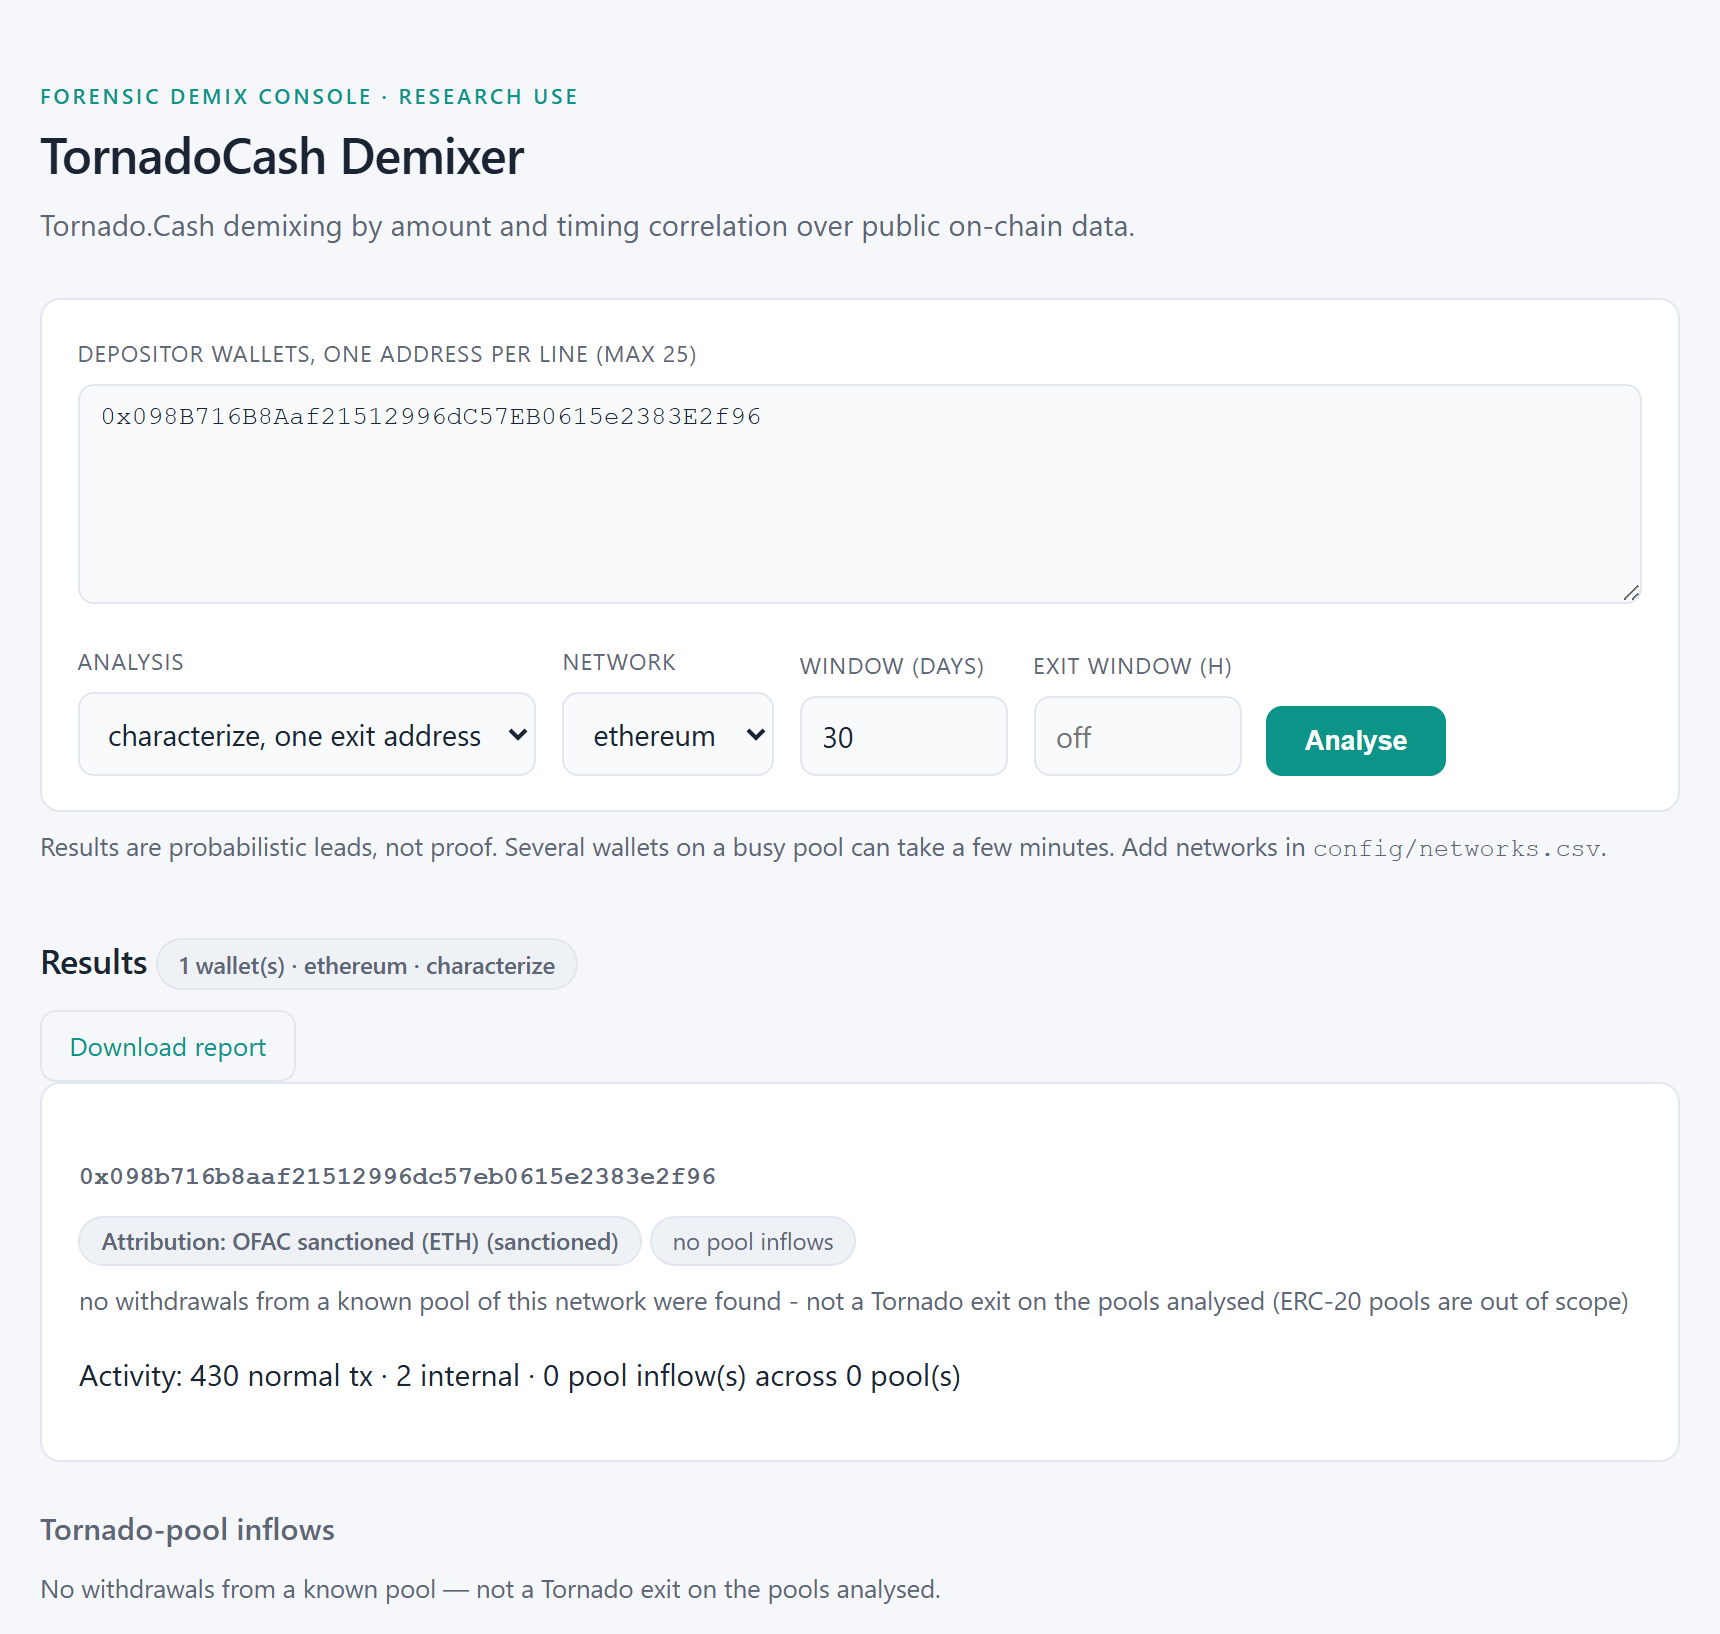
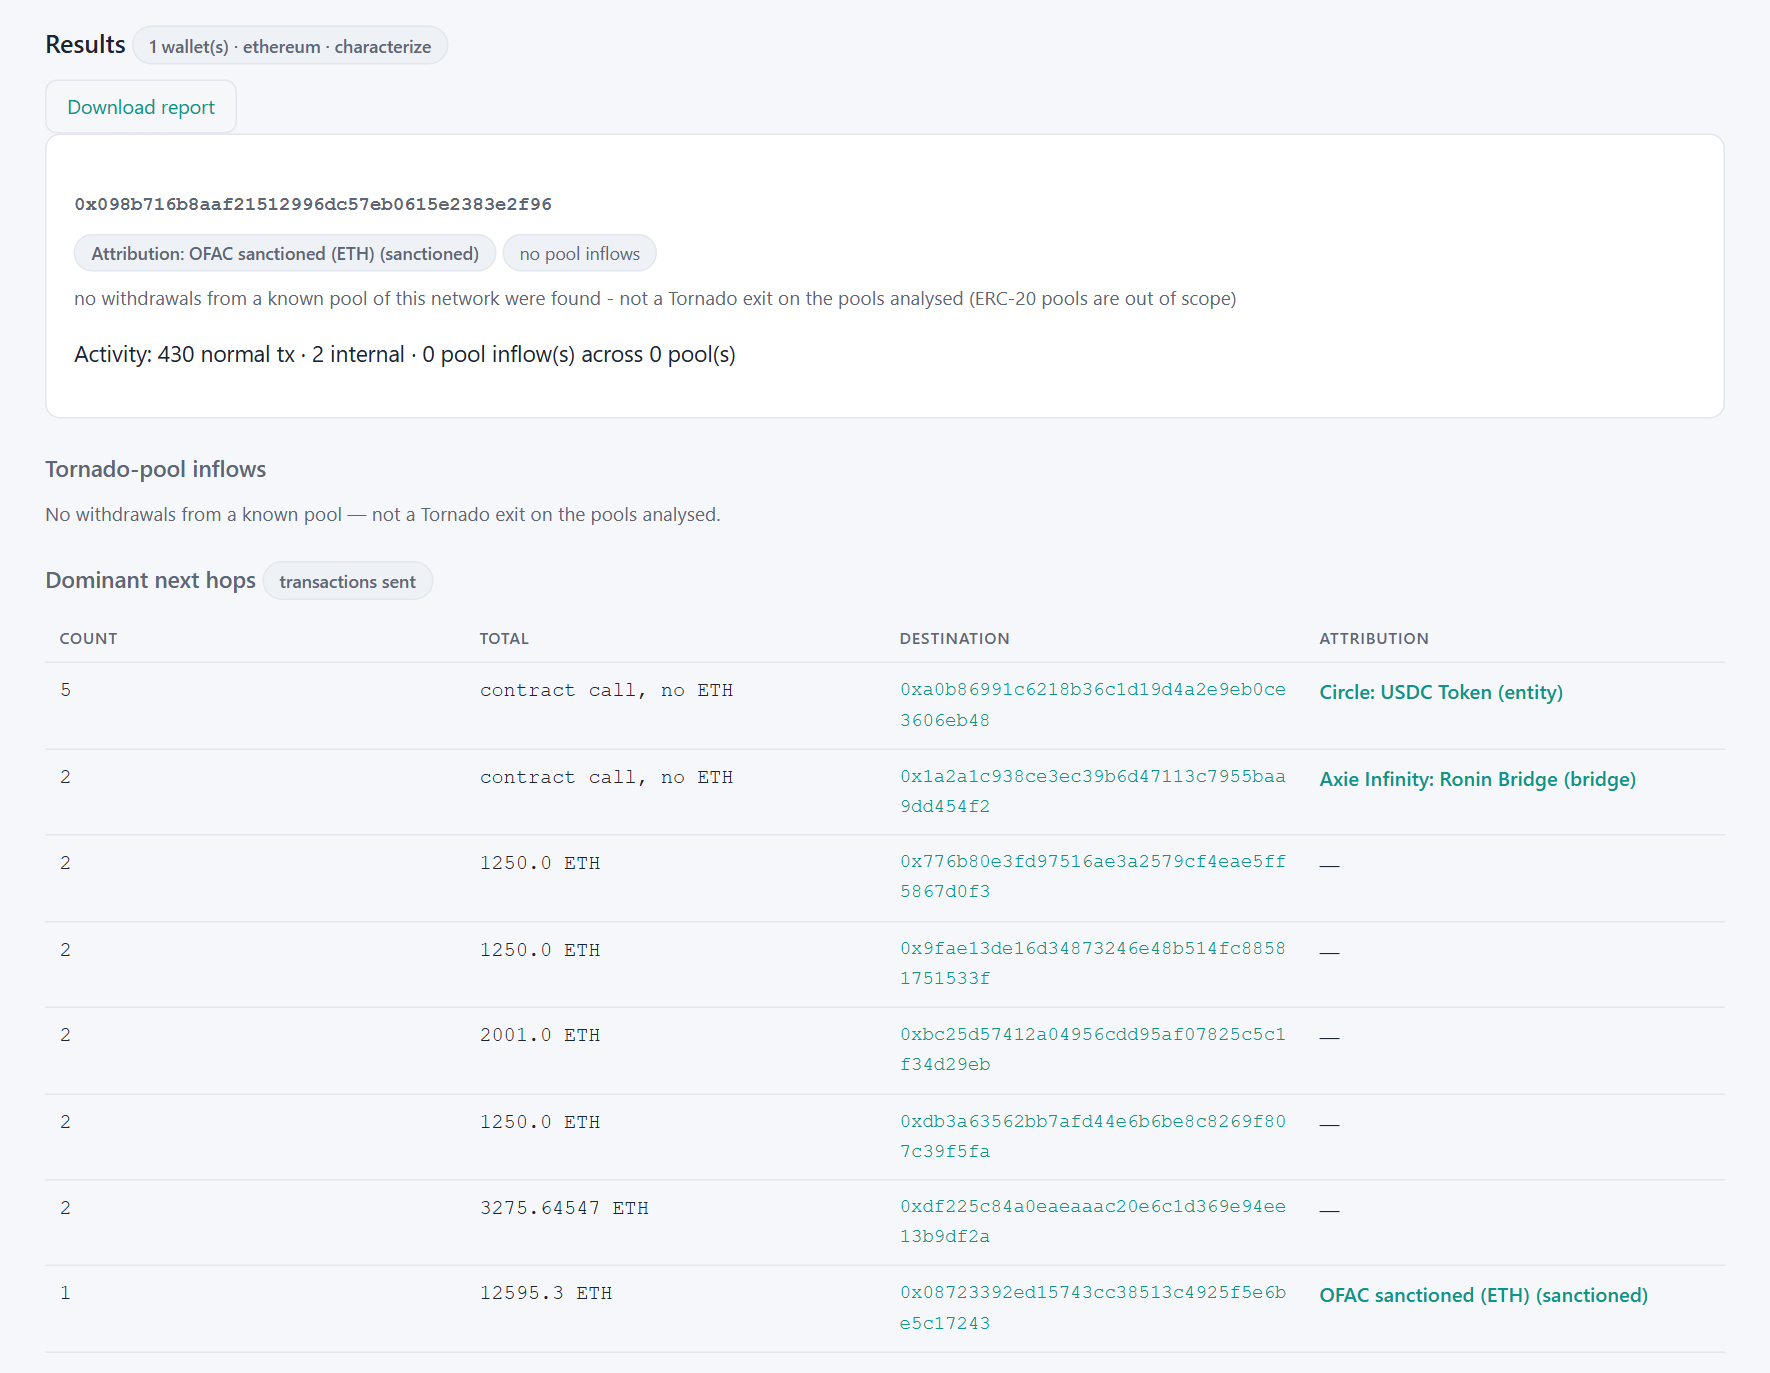
Rework the documented cases with captioned screenshots; release 2.11.0

diff --git a/webui/templates/index.html b/webui/templates/index.html
@@ -355,6 +355,30 @@
       <div class="note"><b>strong</b>: an independent gas-price or linked signal; <b>moderate</b>: distinct fingerprints of wallets that did not deposit together; <b>weak</b>: explained by the shared search window.</div>
       {% else %}<div class="note">None. No single address matched two wallets' fingerprints.</div>{% endif %}
 
+      <h3>Operator clusters <span class="chip">{{ result.clusters|length }}</span></h3>
+      {% if result.clusters %}
+      <table>
+        <colgroup><col style="width:8%"><col style="width:30%"><col></colgroup>
+        <tr><th>Wallets</th><th>Linked by</th><th>Members</th></tr>
+        {% for c in result.clusters %}
+        <tr><td class="num">{{ c.wallets|length }}</td><td>{% for r in c.reasons %}<span class="pill">{{ r }}</span>{% endfor %}</td>
+          <td class="mono">{{ c.wallets|join(', ') }}</td></tr>
+        {% endfor %}
+      </table>
+      {% else %}<div class="note">No two wallets are linked by discriminating evidence.</div>{% endif %}
+
+      <h3>Shared funders <span class="chip">not labelled, not busy</span></h3>
+      {% if result.funders %}
+      <table>
+        <colgroup><col style="width:38%"><col style="width:8%"><col></colgroup>
+        <tr><th>Funder</th><th>Wallets</th><th>Funded depositors</th></tr>
+        {% for f in result.funders %}
+        <tr><td class="mono"><a href="{{ f.url }}" target="_blank" rel="noopener">{{ f.address }}</a></td>
+          <td class="num">{{ f.wallets|length }}</td><td class="mono">{{ f.wallets|join(', ') }}</td></tr>
+        {% endfor %}
+      </table>
+      {% else %}<div class="note">No immediate funder is shared by two depositors.</div>{% endif %}
+
       <h3>Strong links <span class="chip">{{ result.n_strong }} total</span></h3>
       <div class="note">Caveat: wallets that deposited at similar times with equal voucher sizes share
         candidate sets by construction, so treat raw overlaps as a window artefact.</div>
@@ -375,6 +399,7 @@
         {% if result.label %}<div class="chip flag">Attribution: {{ result.label }}</div>{% endif %}
         <div class="chip">{{ result.classification }}</div>
         <div class="note">{{ result.reason }}</div>
+        {% if result.disposable %}<div class="chip flag" style="margin-top:.4rem">Disposable: first activity at most a day before the first pool inflow (context, not proof)</div>{% endif %}
         <p>Activity: {{ result.normal_txs }} normal tx · {{ result.internal_txs }} internal ·
           {{ result.n_inflows }} pool inflow(s) across {{ result.n_pools }} pool(s){% if result.totals %} · total {{ result.totals }}{% endif %}</p>
       </div>

diff --git a/webui/app.py b/webui/app.py
@@ -386,7 +386,23 @@ def _run_multi(client, wallets, net, window_days, mode, exit_window_hours=None):
     )
     header = ["wallet", "fingerprint", "consolidator_address", "match_type", "received_vs_needed"]
     return (
-        {"strong": strong, "profiles": profiles, "cross": cross, "n_strong": len(corr["strong"])},
+        {
+            "strong": strong,
+            "profiles": profiles,
+            "cross": cross,
+            "n_strong": len(corr["strong"]),
+            "funders": [
+                {"address": f, "url": net.addr_url(f), "wallets": ws}
+                for f, ws in corr.get("shared_funders", {}).items()
+            ],
+            "clusters": [
+                {
+                    "wallets": c["wallets"],
+                    "reasons": sorted({e[2] for e in c["edges"]}),
+                }
+                for c in corr.get("operator_clusters", [])
+            ],
+        },
         (header, rows),
         {"multi": report},
     )
@@ -542,6 +558,7 @@ def _run_characterize(client, address, net):
         "totals": totals,
         "inflows": inflows,
         "next_hops": next_hops,
+        "disposable": info.get("disposable", False),
     }
     header = ["when_utc", "value", "asset", "pool"]
     rows = [[r["when"], r["value"], r["asset"], r["pool"]] for r in inflows]

diff --git a/tornado_demix/report_html.py b/tornado_demix/report_html.py
@@ -281,7 +281,7 @@ def _groups_html(groups: list[dict], network: Network) -> str:
             '<div class="lead-card">'
             f'<div class="top"><span class="pill">{_e(g["pool_key"])}</span>'
             f"<b>{len(g['members'])} addresses · {g['notes']} notes</b>"
-            f'<span class="conf pct">{_e(_ts(g["first_ts"]))} – {_e(_ts(g["last_ts"]))} UTC</span></div>'
+            f'<span class="conf pct">{_e(_ts(g["first_ts"]))} – {_e(_ts(g["last_ts"]))}</span></div>'
             f'<div class="why">Anchor: {_e(anchors)}</div>'
             f'<ul class="evidence">{members}</ul></div>'
         )
@@ -303,7 +303,7 @@ def _case_summary_html(data: dict, cands: list[dict]) -> str:
     text = (
         f"The depositor made {n_notes} deposit(s) into {len(pools)} pool(s) "
         f"({', '.join(pools)}) in {len(data['vouchers'])} voucher(s) between "
-        f"{_ts(first)} and {_ts(last)} UTC. Candidate exits by band: {found}."
+        f"{_ts(first)} and {_ts(last)}. Candidate exits by band: {found}."
     )
     if fresh:
         text += f" {fresh} of the top candidates are fresh addresses (context, not scored)."

diff --git a/tornado_demix/__init__.py b/tornado_demix/__init__.py
@@ -12,7 +12,7 @@ from .multi import correlate
 from .networks import get_network, load_networks
 from .pools import Pool
 
-__version__ = "2.10.0"
+__version__ = "2.11.0"
 __all__ = [
     "EtherscanClient",
     "run_demix",

diff --git a/README.md b/README.md
@@ -190,35 +190,133 @@ page lists where the traced funds stop and why (labelled address, hop limit, a
 contract that paid nothing back, not moved on) and every edge with its attributed
 amount, swaps included; the HTML report, CSV and JSON can be downloaded.
 
-![demix in the web UI: AVAX 500 pool, strong band with its evidence](docs/img/demix-evidence.png)
+![demix in the web UI with the evidence panel open](docs/img/demix-evidence.png)
+*A demix run on Avalanche: two vouchers, a `strong` candidate (count match plus a direct transaction with the depositor) and the evidence panel listing every family that was checked.*
 
 The UI binds to localhost and has no authentication (forms carry a CSRF token); see
 [SECURITY.md](SECURITY.md).
 
 ## Documented cases
 
-The three cases below have an external source of truth and can be re-run from the
-addresses shown. In each, the tool does not recover the laundering path; it shows
-facts that can be checked independently.
+Five public cases with an external source of truth. Each can be re-run from the
+addresses shown (an Etherscan API key is enough; the Ronin labels need an
+attribution set). The screenshots are from the web UI; the CLI prints the same
+results. A new run can show slightly different counts as the chain grows and open
+search windows are clamped to the current block.
 
-| Case | Command | What the tool shows | Needs |
-|---|---|---|---|
-| Ronin Bridge exploiter `0x098B716B8Aaf21512996dC57EB0615e2383E2f96` | `characterize` | the address labelled as OFAC-sanctioned; its next transactions: contract calls to Circle: USDC and the Ronin Bridge, and 12,595 ETH sent to a second sanctioned address | the wallet-attribution dataset (it contains these OFAC SDN entries); without labels the same hops are shown unlabelled |
-| Wintermute attacker `0xe74b28c2eAe8679e3cCc3a94d5d0dE83CCB84705` | `characterize` | one inflow of 9.9435 ETH from the 10 ETH pool on the day of the attack | API key |
-| Beanstalk attacker `0x1c5dCdd006EA78a7E4783f9e6021C32935a10fb4` | `demix --exit-window 24` | 271 deposits (247 x 100, 14 x 10, 9 x 1, 1 x 0.1 ETH) within about three hours; no candidate above `weak` | API key |
+| # | Case | Analysis | What it shows | Source of truth |
+|---|---|---|---|---|
+| 1 | Ronin Bridge 2022 | `characterize` | OFAC-labelled exploiter, bridge and USDC calls, 12,595 ETH to a second sanctioned address | [OFAC, 14 Apr 2022](https://ofac.treasury.gov/recent-actions/20220414) |
+| 2 | Wintermute 2022 | `characterize` | one 9.9435 ETH inflow from the 10 ETH pool; a disposable address | [Merkle Science](https://www.merklescience.com/blog/hack-track-analysis-of-wintermute-attack) |
+| 3 | Beanstalk 2022 | `demix --exit-window 24` | 271 deposits in three hours; no candidate above `weak` | [Merkle Science](https://www.merklescience.com/blog/hack-track-analysis-of-beanstalk-flash-loan-attack) |
+| 4 | KuCoin 2020 | `demix` | 6 of 7 exits found through the linked withdrawal sender | [tayvano/lazarus-bluenoroff-research](https://github.com/tayvano/lazarus-bluenoroff-research) |
+| 5 | Harmony 2022 | `demix --known-exit`, `multi`, `trace` | an exit group from one known exit; 14 depositors in 5 funder clusters; a three-hop trace | [tayvano/lazarus-bluenoroff-research](https://github.com/tayvano/lazarus-bluenoroff-research) |
 
-Sources: [OFAC action of 14 Apr 2022](https://ofac.treasury.gov/recent-actions/20220414),
-[Merkle Science on Wintermute](https://www.merklescience.com/blog/hack-track-analysis-of-wintermute-attack),
-[Merkle Science on Beanstalk](https://www.merklescience.com/blog/hack-track-analysis-of-beanstalk-flash-loan-attack).
-Attributing the Ronin theft to Lazarus was government intelligence, not on-chain
-analysis; the identity of the other two attackers is not established.
+Attributing the Ronin, KuCoin and Harmony thefts to Lazarus is the conclusion of
+government and industry investigators, not of on-chain analysis; the identity of
+the Wintermute and Beanstalk attackers is not established.
 
-![characterize: Ronin exploiter](docs/img/case-ronin.png)
-![characterize: Wintermute attacker](docs/img/case-wintermute.png)
-![demix: Beanstalk attacker](docs/img/case-beanstalk.png)
+### 1. Ronin Bridge exploiter
 
-A new run can show slightly different counts as the chain grows and open search
-windows are clamped to the current block.
+```bash
+python -m tornado_demix characterize 0x098B716B8Aaf21512996dC57EB0615e2383E2f96
+```
+
+The exploiter received nothing from a Tornado pool; `characterize` shows where
+its funds went next. With the attribution set loaded, the address itself and the
+12,595.3 ETH destination are labelled OFAC-sanctioned, and the contract calls go
+to Circle: USDC and the Ronin Bridge. Without labels the same hops are shown
+unlabelled.
+
+![Ronin exploiter in characterize](docs/img/case-ronin.png)
+*`characterize` on the Ronin exploiter: attribution labels, no pool inflows, and the dominant next hops with the 12,595.3 ETH transfer to a second sanctioned address.*
+
+### 2. Wintermute attacker
+
+```bash
+python -m tornado_demix characterize 0xe74b28c2eAe8679e3cCc3a94d5d0dE83CCB84705
+```
+
+One inflow of 9.9435 ETH from the 10 ETH pool on the day of the attack
+(2022-09-20), the first activity of the address: it is flagged as disposable, the
+pattern of 98.6 % of laundering exits in the MixLaunder cases.
+
+![Wintermute attacker in characterize](docs/img/case-wintermute.png)
+*`characterize` on the Wintermute attacker: one pool inflow, classified as a possible personal exit and flagged disposable.*
+
+### 3. Beanstalk attacker
+
+```bash
+python -m tornado_demix demix 0x1c5dCdd006EA78a7E4783f9e6021C32935a10fb4 --exit-window 24
+```
+
+271 deposits (247 x 100, 14 x 10, 9 x 1 and 1 x 0.1 ETH) within about three
+hours. With a 24-hour exit window the count match leaves one `weak` candidate and
+nothing corroborated: a careful operator leaves no lead, and the tool says so
+rather than naming an unrelated address.
+
+![Beanstalk attacker in demix](docs/img/case-beanstalk.png)
+*`demix` on the Beanstalk attacker: four vouchers, 271 notes, and a single weak count-match candidate.*
+
+### 4. KuCoin hack (2020)
+
+```bash
+python -m tornado_demix demix 0x820a7a97dd146fd97f79881afdf4767624973368
+```
+
+The attacker called `withdraw()` itself from an address investigators attribute
+to it: 128 withdrawals to 7 exits. No exit received a voucher-sized count (each
+got 11-29 notes against a 24-note voucher), so the count match finds nothing. The
+depositor had transacted with that caller, so every withdrawal it sent marks its
+recipient (`linked_sender`): 6 candidates, all 6 true exits; the seventh
+received its withdrawals months later, outside the window. The report opens with
+a flow diagram from the depositor through the pool to the candidates.
+
+![KuCoin depositor in demix](docs/img/case-kucoin.png)
+*`demix` on a KuCoin depositor: six moderate candidates, each an exit that received withdrawals sent by the depositor's counterparty; the evidence panel shows which families hold.*
+
+![KuCoin case overview in the HTML report](docs/img/case-kucoin-flow.png)
+*The case overview of the HTML report: depositor, pool and the six candidates, coloured by band.*
+
+### 5. Harmony Bridge hack (2022)
+
+Investigators listed 14 depositors and 55 withdrawal addresses. The attacker
+pooled 857 notes of the 100 ETH pool and paid them out mostly six at a time, so
+the count match finds no exit and no false one. Three other analyses do.
+
+**Exit groups.** Starting from one exit known from the investigation, `demix`
+lists the recipients paid out in the same bursts:
+
+```bash
+python -m tornado_demix demix 0xe71d5fa89d1086d5c3b0ab03eeee2483d2d5ca97 \
+    --known-exit 0x0562ddf7ea5ab56728852eea2eacab61c4b78a1a
+```
+
+![Harmony exit group from one known exit](docs/img/case-harmony-groups.png)
+*An exit group anchored by one known exit: 22 addresses paid out in joint bursts, 20 of them on the investigators' list. Across all depositors, one known exit gives 23 addresses on average, 73 % of them on the list.*
+
+**Shared funders.** Correlating the 14 depositors links all of them through five
+immediate funders, each of which was paid directly by the bridge exploiter
+`0x0d04...ded00`; a sixth, busy funder is left out:
+
+```bash
+python -m tornado_demix multi --wallets-csv docs/cases/harmony_depositors.csv
+```
+
+![Harmony depositors linked by shared funders](docs/img/case-harmony-funders.png)
+*`multi` on the 14 Harmony depositors: operator clusters linked by a shared funder, and the funders themselves.*
+
+**Trace.** From an exit, `trace` follows the 100 ETH it received forward:
+
+```bash
+python -m tornado_demix trace 0x04bca8fa79f36749fa605597e9c9f6788c126944 --amount 100 --max-hops 3
+```
+
+![Three-hop trace from a Harmony exit](docs/img/case-harmony-trace.png)
+*`trace` from a Harmony exit: the 100 ETH moves through two intermediate addresses; the trace stops at the hop limit.*
+
+The method on both public cases, with the numbers behind each claim, is in
+[docs/EVALUATION.md](docs/EVALUATION.md); `python tools/real_cases.py` repeats it.
 
 ## Limitations
 
